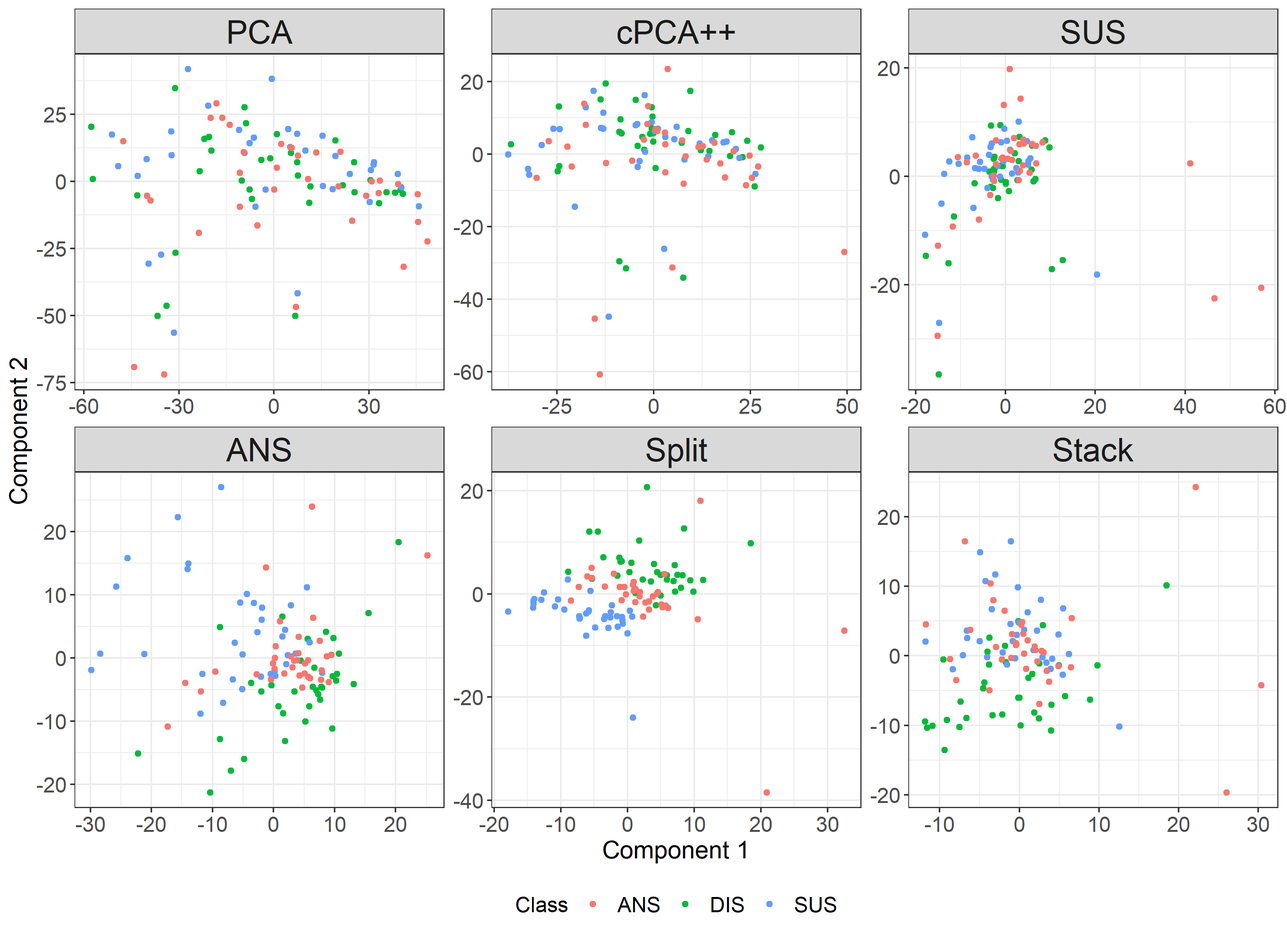
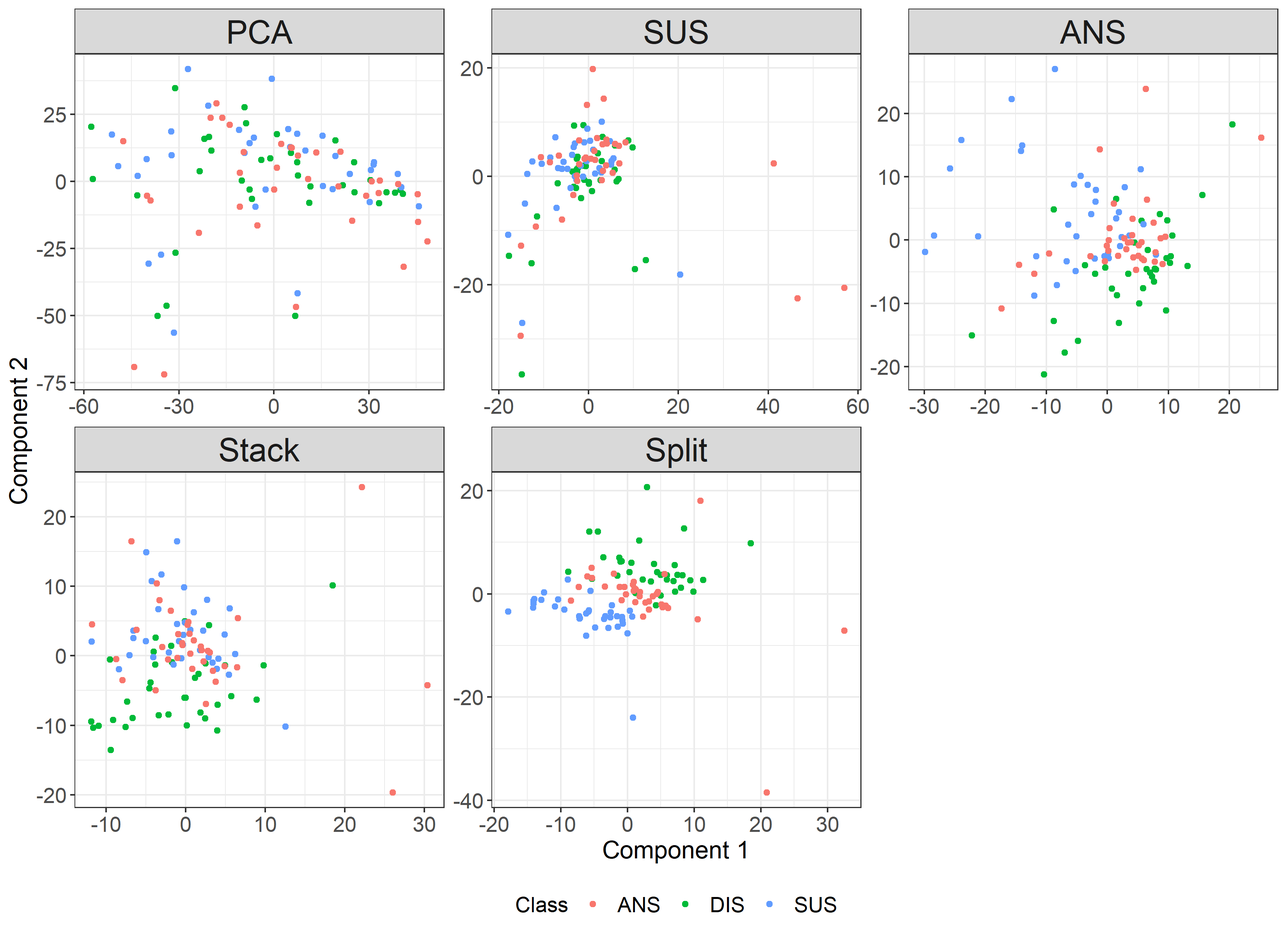
update figures to remove cpca++ and add face of interest. update section title, add leading sentence to results section

diff --git a/DCA/main.tex b/DCA/main.tex
@@ -98,64 +98,70 @@ Boileau et al.  \cite{Boileau} described Sparse cPCA (scPCA) by adding $l_1$ and
     %    \item no intuition on how to extend to multiple data
     %\end{enumerate}
    
-   However, there are two main disadvantages to these existing methods. First, they cannot accommodate multiple background datasets. Multiple backgrounds would allow researchers to target the exact variability of interest by removing unwanted variation from multiple sources and/or conditions. For example...
-   Naively applying existing methods by stacking the multiple background data matrices together and forming a pooled covariance matrix will not work well. The pooled covariance is a sample-weighted average of the individual background covariance matrices and may not be representative of any of the individual datasets. %The resulting best case scenario is multiple backgrounds with the exact same covariance matrix such that background variation is preserved.  However, the worst case scenario, background covariances may sum to a diagonal matrix, washing out background variation when stacking and reducing cPCA and its variants to PCA. 
+   However, there are two main disadvantages to these existing methods. First, they cannot accommodate multiple background datasets. Multiple backgrounds would allow researchers to target the exact variability of interest by removing unwanted variation from multiple sources and/or conditions. 
+   For example, identifying unique facial features of Happy Emotions in a data set which also contains Surprise, Angry, and Sad faces. If researchers have prior data on Surprise, Angry, and Sad faces, they can contrast those emotions without diluting the structure of each individual background, therefore recovering features specific to Happy.
+   Naively applying existing methods by stacking the multiple background data matrices together and forming a pooled covariance matrix is suboptimal. The pooled covariance is a sample-weighted average of the individual background covariance matrices and may not be representative of any of the individual datasets. %The resulting best case scenario is multiple backgrounds with the exact same covariance matrix such that background variation is preserved.  However, the worst case scenario, background covariances may sum to a diagonal matrix, washing out background variation when stacking and reducing cPCA and its variants to PCA. 
    
    The second disadvantage of existing contrastive methods is that they require one (e.g., cPCA and ccPCA) or several (e.g., scPCA) tuning parameters, user input variables that influence an algorithm's behavior. Since existing contrastive methods heavily depend on the tuning parameter, finding the optimal tuning parameter(s) which balances the dual mandate of maximizing variability in the target and minimizing variability variability in the background may be tedious and frustrating. Although cPCA and ccPCA have criteria-based tuning parameter solutions, the right tuning parameter may not be among the default candidates. An apparent exception is cPCA++, but in practice it requires a tuning parameter when its background sample covariance matrix is not positive definite, which is common many applications.
    
    %Lastly, from a computational perspective, they each revolve around the construction of the complete $p \times p$ contrastive covariance matrix, involving two $p\times p$ target and background covariance matrice. When $p$ is large, the required memory scales with $p^2$, making these methods unsuitable for high-dimensional settings, especially for dense matrices.
     
     
-    We propose Unique Component Analysis (UCA) to address both of these issues. UCA works by constraining the objective function in cPCA to give directions that are orthonormal and explain small amounts of variation in each background dataset. Specifically, let $A$ be the $p \times p$ target covariance matrix and $B_j$, $j \in 1,...,m$ be the $m$ $p\times p$ background covariance matrices. We seek to: 
+    We propose Unique Component Analysis (UCA) to address both of these issues. UCA works by constraining the objective function in cPCA to give directions that are orthonormal and explain small amounts of variation in each background dataset. Specifically, let $A$ be the $p \times p$ target covariance matrix and $B_j$, $j \in 1,\ldots, m$ be the $m$ $p\times p$ background covariance matrices. We seek to: 
      \begin{align}
          &\max_{v\in \mathbb{R}^p}{v^TAv} \nonumber\\ 
          \text{subject to }&\; v^{T}v=I,\;\; v^TB_1 v \leq 1, \cdots, v^T B_m v \leq 1 \nonumber
      \end{align}
     These constraints are naturally found in generalized eigenvalue problems and can be solved using weak duality of the Lagrangian.
-    UCA is tuning-free, is easily extensible to multiple background data sets, and is scalable to high-dimensions. We hope to provide a way for researchers to explore higher dimensional data and uncover variation unique to the data of interest, variation not shown in previous studies, control groups, and other known sources of variation, simultaneously. UCA seeks to find the unique directions of variation which both maximize the varability in the target dataset and also account for little variation in each of the background dataset(s). We show that UCA achieves similar results as cPCA and cPCA++ with a single background dataset and that it can outperform them when using multiple backgrounds. %We then use UCA to find prominent emotional features using eigenfaces and illustrate where stacking may fail. In the methods section, we provide detail to how UCA works and how we handle high-dimensional problems. 
-    %We provide three examples illustrating the effectiveness of UCA and 
+    UCA is tuning-free, is easily extensible to multiple background data sets, and is scalable to high-dimensions. We hope to provide a way for researchers to explore higher dimensional data and uncover variation unique to the data of interest, variation not shown in previous studies, control groups, and other known sources of variation, simultaneously. UCA seeks to find the unique directions of variation which both maximize the varability in the target dataset and also account for little variation in each of the background dataset(s). We show that UCA achieves similar results as cPCA and cPCA++ with a single background dataset and that it can outperform them when using multiple backgrounds. 
 
 Another way to conduct contrastive dimension reduction is with ``Residual PCA''. We note that residual PCA (rPCA) is not a formal technique but is used as an ad-hoc method of removing noise from known variability  \cite{rpca}. Again, let $A$ be the $p \times p$ target covariance matrix and $B$ be the $p\times p$ background covariance matrix.  For some integer $k$ which denotes the low dimensional representation of $B$, rPCA performs PCA after projecting $A$ onto the ``residual'' space of $B$. More specifically, if $W$ denotes the eigenvectors of $B$ and $W_{(k+1):p}$ the top $(k+1):p$ eigenvectors of $B$,then rPCA seeks to:
 \[\max_{v\in \mathbb{R}^p}{v^T \left(W_{(k+1):p}W_{(k+1):p}^T A\right) v}\]
 Note that cPCA with contrastive parameter $\lambda \rightarrow \infty$ is different from rPCA because rPCA requires user to choose the number of background components to be kept, whereas cPCA with $\lambda \rightarrow \infty$ maps reduces the target on the nullspace of the background-- they would be equivalent for $k = p$. We present rPCA to demonstrate that some of the same underlying directions can be found in a more intuitive way. It also can easily be extensible to multiple backgrounds by projecting onto addition background residual spaces. Since the residual space of the background can be done easily with singular-value decomposition, it is computationally simple and straight forward. However, one still needs to choose the background data dimension, $k$.
-To solve this tuning parameter problem, we use the elbow method of finding the best linear single knot spline at $k$ such that the mean-square error is minimized in the scree plot.%(Cite...I don't remember the citation for this...)
+To solve this tuning parameter problem, we use the elbow method of finding the best linear single knot spline at $k$ such that the mean-square error is minimized in the scree plot. For the examples below, we will default to this method of selecting $k$. %(Cite...I don't remember the citation for this...)
    
-   
-   
+  % some thing that leads to the results section  
+   %We then use UCA to find prominent emotional features using eigenfaces and illustrate where stacking may fail. In the methods section, we provide detail to how UCA works and how we handle high-dimensional problems. 
+    %We provide three examples illustrating the effectiveness of UCA and 
+
 \section{Results}
 \subsection{Subgroup discovery in protein expression data}
+\begin{figure}[th!]
+    \centering
+	\includegraphics[width = 0.8\textwidth]{figure/Mouse_Data.png}
+	\caption{Mouse Protein Expression: Down Syndrome Separability of Saline injected mice which were not shocked. confirming  \cite{Abid} results where Down Syndrome and control mice were unseparable using PCA alone but is easily separable by cPCA at all values of $\lambda$, cPCA++, rPCA, and UCA.}
+	\label{fig:Mouse}
+\end{figure}
+We show UCA has consistent performance to cPCA, and better performance than cPCA++ using the Mouse Protein Expression data.
 The goal of the mouse protein expression experiment was to assess whether Memantine recovered the ability to learn in Down Syndrome mice, with the aim to identify subsets of protein that discriminate between treatment classes.
  The study measured expression of 76 mice proteins of 1080 control or trisomic (Down Syndrome) mice samples (each mice measurement considered an independent sample/mouse), which received a combination of shock therapy (Context Shock vs. Shock Context) and drugs (Saline vs. Memantine)  \cite{Ahmed, Higuera, Abid}.  
-Since saline treated mice not exposed to shock therapy (Shock Context) are similar to those that are saline treated but also exposed (Context Shock) to shock therapy, we can investigate the variation unique to undruged and unshocked mice by contrasting shocked control mice protein expression measurements, which removes variation resulting from shock therapy. Doing so may show how control mice and Down Syndrome mice differ in the control setting.
+Here, we investigate the variation unique to unshocked, saline injected mice.
+Since saline treated mice not exposed to shock therapy (Shock Context) are similar to saline treated mice that are exposed to shock therapy (Context Shock), we can contrast protein expression measurements from shocked, saline treated mice, effectively removing variation resulting from shock therapy. Doing so may show how control mice and Down Syndrome mice differ in the saline treated setting.
+
 We compare the principal directions found by UCA to those found by PCA, cPCA ($\lambda = 0.5, 1, 5, 10$), cPCA++, and rPCA on Saline injected mice which have not received shock therapy (Shock Context) and use Down Syndrome class to evaluate separability when observations are projected onto the first two directions found by each method.
 
 The results in Figure \ref{fig:Mouse} show that PCA has difficulty distinguishing between mice with Down Syndrome and mice without.  In this example, the resulting separation in the first two contrastive principal components does not depend on the chosen $\lambda$. At all values of $\lambda$, cPCA achieves good separation, therefore it is unsurprising UCA has similar results. These results align with the results found in  \cite{Abid}.
-cPCA++, which also does not require specifying a contrastive tuning parameter, performs better than PCA at separating control and Down Syndrome mice, but falls short of achieving similar performance to cPCA for any value of the contrastive tuning parameter. Interestingly, the simple and intuitive rPCA method, with $k$ chosen by single knot spline with smallest MSE, achieved similar results to both cPCA and UCA, while outperforming cPCA++.
+cPCA++, which also does not require specifying a contrastive tuning parameter, performs better than PCA at separating control and Down Syndrome mice, but falls short of achieving similar performance to cPCA at any value of the contrastive tuning parameter. Interestingly, the simple and intuitive rPCA method, with $k$ chosen by single knot spline with smallest MSE, achieved similar results to both cPCA and UCA, while outperforming cPCA++.
 
-% rewrite caption
-\cite{Abid} we confirm their results. 
-\begin{figure}[t]
-    \centering
-	\includegraphics[width = 0.8\textwidth]{figure/Mouse_Data.png}
-	\caption{Mouse Protein Expression: Separability of Saline injected mice which were not shocked. confirming  \cite{Abid} results where a background of Saline injected mice who were shocked was used. This example is unseparable using PCA alone but is easily separable by cPCA for all values of $\alpha$, cPCA++, rPCA, and UCA.}
-	\label{fig:Mouse}
-\end{figure}
 
 \subsection{Subgroup discovery in protein expression data with multiple backgrounds}
-A more challenging problem for cPCA and it's variants is separating Down Syndrome and Control mice when the target involves Saline injected mice which received shock therapy. In figure \ref{fig:MouseSplitStack} we show the results of PCA, cPCA++, rPCA, and UCA with a variety of backgrounds (shown in parenthesis): memantine injected mice with Down Syndrome that were shocked (Mem-C/S-Ts65Dn), memantine injected mice with Down Syndrome that were not shocked (Mem-S/C-Ts65Dn), saline injected mice with Down Syndrome that were not shocked (Saline-S/C-Ts65Dn), all of the aforementioned backgrounds stacked before forming their joint covariance matrix (Stack All), and aforementioned backgrounds treated as separate backgrounds simultaneously (Split All). 
-
-PCA and the single background condition UCA, cPCA++ and rPCA ($k$ chosen with single knot spline with lowest MSE) with stacked background cannot distinguish between Down Syndrome and control mice. UCA with stacked background performs better at splitting the two groups compared with the other methods.  However, UCA with split background yields almost complete separability compared with the stack background result, demonstrating the additional leverage when we treat each background separately.
-We note that this problem isn't easily separable by using cPCA++, rPCA, and cPCA with a variety of contrastive parameter and the results are generally worse than figure \ref{fig:MouseSplitStack} (see figure \ref{fig:mouse_stack_cpca} in the Appendix). 
-
-%We also note that the choice of background is crucial and that not some backgrounds are unsuitable... using control instead leads to bad results?
-% extension by multiple targets? Dave says that you can just maximize the one with the smallest variability.
-
-\begin{figure}[t]
+\begin{figure}[th!]
     \centering
-	\includegraphics[width = 1.0\textwidth]{figure/Mouse_split_stack_Ts65Dn.png}
-	\caption{Mouse Protein Expression : Separability of saline injected mice which were shocked. Separating Down Syndrome and control mice is more difficult in this case when only using a single background dataset. UCA with every combination of background (in parenthesis) represents the best case sceario for cPCA, and cannot separate between Down Syndrome and control mice. However, when combining information from all backgrounds via stacking, UCA improves the separation. Note that cPCA++ and rPCA both have difficulty even when leveraging the same stacked background.  When treating each background separately, UCA improves on the stacking results.}
+	\includegraphics[width = 0.9\textwidth]{figure/Mouse_split_stack_Ts65Dn.png}
+    \caption{Mouse Protein Expression : Separability of context shocked (C/S) and saline injected mice. Separating Down Syndrome and control mice is more difficult in this case when only using a single background dataset. UCA with every combination of background (in parenthesis), which represents cPCA under the best case scenario, ncannot separate between Down Syndrome and control mice. However, when combining information from all backgrounds via stacking (Stack All), UCA improves the separation. Note that cPCA++ and rPCA both have difficulty even when leveraging the same stacked (Stack All) background.  When treating each background separately, UCA improves on the stacking results.}
 	    \label{fig:MouseSplitStack}
 \end{figure}
+A more challenging problem for cPCA and it's variants is separating Down Syndrome and control mice when mice receive both saline and shock therapy.
+In figure \ref{fig:MouseSplitStack} we show the results of PCA, cPCA++, rPCA, and UCA with a variety of backgrounds (shown in parenthesis): memantine injected mice with Down Syndrome that were shocked (Mem-C/S-Ts65Dn), memantine injected mice with Down Syndrome that were not shocked (Mem-S/C-Ts65Dn), saline injected mice with Down Syndrome that were not shocked (Saline-S/C-Ts65Dn), all of the aforementioned backgrounds stacked before forming their joint covariance matrix (Stack All), and aforementioned backgrounds treated as separate backgrounds simultaneously (Split All). 
+Here, we use UCA as a best case proxy for cPCA.  We note that under the shock therapy condition, cPCA with other values of the contrastive parameter result in worse separability than figure \ref{fig:MouseSplitStack} (see figure \ref{fig:mouse_stack_cpca} in the Appendix). 
+
+Similar to the singe background situation above, PCA is unable to distinguish between control and Down Syndrome mice.
+In contrast, UCA with a single background (Mem-C/S-Ts65Dn, Mem-S/C-Ts65Dn, Saline-S/C-Ts65Dn) also fails to distinguish between control and Down Syndrome mice.
+Combining multiple backgrounds improves the group separability. When combining the individual backgrounds to create the ``Stack All'' background, rPCA, cPCA++, and UCA significantly improve the separability between the two group, with UCA achieving the best separability.
+However, UCA demonstrates the additional leverage gained by individually contrasting each background simultaneously: UCA with the ``Split All'' background yields almost complete separability. 
+
+%We also note that the choice of background is crucial and that not some backgrounds are unsuitable... using control instead leads to bad results?
+
 
 
 %We show that our results match the cPCA results
@@ -164,39 +170,38 @@ We note that this problem isn't easily separable by using cPCA++, rPCA, and cPCA
 %residual PCA yields similar results.
 
 
-\subsection{Faces}
-We exemplify the advantages of the multiple background capabilities of UCA using the Karolinska Directed Emotional Faces (KDEF) \cite{Calvo2008}, which captured images of 7 emotions, 5 different perspectives, from 70 amateur actors in either a practice or final session.
-Here we construct an example demonstrating that using UCA with multiple backgrounds is superior to using a single background. 
-This is similar to a real world use-case of UCA where researchers may have targeted variation of interest, but also various control groups.
-For illustrative purposes, We focus on  uncover variation unique to the Disgust emotion after contaminating the data with Surprise and Angry emotions from the final session.
-In Figure \ref{fig:Faces}, we look at the top five eigenfaces produced by PCA, UCA with a single practice session background emotion of either Angry, Surprise, or an amalgamation of both Angry and Suprise (Stack), compared to cPCA++ with stacked background and UCA with dual practice session backgrounds of Angry and Suprised (Split). 
-% Since UCA represents the best case, we did not compare to different values of contrastive tuning parameter alpha
-
-% some conclusions about the image
-
-With PCA, eigenfaces represent faces that appear mostly angry.  
-UCA with only Surprise practice faces as the background is dominated by surprise faces.
-UCA with only Angry practice faces as the background contains a mixture of surprise (2) and disgust (1,4,5) faces.
-When UCA has both Surprise and Angry in the background, we see that features of digust are highlighted in the first two eigenfaces
-However, when using the joint covariance of Surprise and Angry as the background, features of disgust are pushed until the 3rd eigenface. The 2nd eigenface here closely resembles that from the 3rd eigenface of Split, and the third eigenface closely resembles the 2nd eigenface from split.
-
-Using cPCA++ with the stacked background, I'm not sure what we get. it looks pretty bad.
-
-
-To better see the differences between the eigenfaces, we project the faces onto the first two components found and color the points by emotional class in figure \ref{fig:Face_Projections}.
-
+\subsection{Separating Emotional Features with Karolinska Directed Emotional Faces}
 \begin{figure}[!th]
     \centering
-	\includegraphics[width = 0.93\textwidth]{figure/F_Surprise_Angry_Disgust.png}
-	\caption{First Five Eigenfaces of Surprise, Angry, and Disgust emotions from the Female Actors from Karolinska Directed Emotional Faces (KDEF) \cite{Calvo2008}. Target data is sus/ans/dis }
+	\includegraphics[width = 0.78\textwidth]{figure/F_Surprise_Angry_Disgust_1.png}
+    \caption{Eigenfaces of Surprise (SUS), Angry (ANS), and Disgust (DIS) emotions from the Female Actors from KDEF \cite{Calvo2008}. ``Emotion'' row contains final session DIS eigenfaces. PCA eigenfaces describe general emotional faces of SUS, ANS, and DIS, whereas UCA with only SUS background exhibits features of both ANS and DIS. UCA with only ANS as background exhibits features of both SUS and DIS. Combining backgrounds SUS and ANS in the Split manner better highlight the nasolabial fold and the eyebrows, features unique to DIS, but not as prominent in SUS or ANS. Combining SUS and ANS in the Stacking manner using UCA does not achieve similar results.}
 	    \label{fig:Faces}
 \end{figure}
 \begin{figure}[!th]
     \centering
-	\includegraphics[width = 0.93\textwidth]{figure/F_Surprise_Angry_Disgust_projected.png}
-	\caption{Eigenfaces projected onto the first two components found by PCA, cPCA++, UCA using Surprise (SUS) as the background, UCA using Angry (ANS) faces as the background, UCA using both Surprise and Angry as the background treated separately (Split), UCA using the joint covariance of Surprise and Split (Stack) as the background}
+	\includegraphics[width = 0.9\textwidth]{figure/F_Surprise_Angry_Disgust_projected.png}
+    \caption{Eigenfaces projected onto the first two components found by PCA, cPCA++, UCA using Surprise (SUS) as the background, UCA using Angry (ANS) faces as the background, UCA using both Surprise and Angry as the background treated separately (Split), UCA using the joint covariance of Surprise and Split (Stack) as the background. UCA with Split background is capable of separating final session emotions whereas UCA with a single practice session background and both UCA and cPCA++ with stacked practice session backgrounds cannot produce the same separation.}
 	\label{fig:Face_Projections}
 \end{figure}
+We exemplify the advantages of the multiple background capabilities of UCA using the Karolinska Directed Emotional Faces (KDEF) \cite{Calvo2008}, which captured images of 7 emotions, 5 different perspectives, from 70 amateur actors in either a practice or final session.
+Here we construct an example demonstrating that using UCA with multiple backgrounds is superior to using a single background. 
+This is similar to a real world use-case of UCA where researchers may have targeted variation of interest, but also various control groups which may be used to remove known variability.
+For illustrative purposes, We focus on  uncover variation unique to the Disgust emotion after contaminating the data with Surprise and Angry emotions from the final session. 
+In Figure \ref{fig:Faces}, we look at the top five eigenfaces produced by PCA, UCA with a single practice session background emotion of either Angry, Surprise, or an amalgamation of both Angry and Suprise (Stack), compared to cPCA++ with stacked background and UCA with dual practice session backgrounds of Angry and Suprised (Split). 
+% Since UCA represents the best case, we did not compare to different values of contrastive tuning parameter alpha
+
+% some conclusions about the image
+PCA eigenfaces generally represent faces of all the emotions and does not highlighting features specifically to any individual emotion.
+UCA with only Surprise (SUS) practice faces as the background is dominated by features unique to Angry faces, whereas UCA with only Angry (ANS) practice faces as the background contains a mixture of surprise and disgust emotional features.
+Using both Surprise and Angry practice faces in the background in either Split or Stack better highlights emotional features of Disgust better than using a single background emotion.
+When UCA has both Surprise and Angry in the background (Split), we see that eyebrows and nasolabial folds, features unique to digust, are more pronounced compared to using the joint covariance of Surprise and Angry as the background, where features of disgust are pushed to the third eigenface. The second eigenface of Stack closely resembles the third eigenface of Split, and the third eigenface closely resembles the 2nd eigenface from split.
+% cPCA++ with the stacked background does not share the same features highlighted by using UCA with both practice emotions as the background in either the split or stack framework.
+
+To better see the differences between the eigenfaces, we project the faces onto the first two components found and color the points by emotional class in figure \ref{fig:Face_Projections}.
+% Here it is clear that cPCA++ does not yield any advantage in emotional class separation over PCA and UCA.
+We can see that under the Split framework unique to UCA, we can actually separate each emotional face in the final session using the first two component, which cannot be accomplished when only using a single background, or combining multiple background data to produce a single joint covariance matrix.
+
+Other face combinations show either similar or better separation when treating backgrounds separately, rather than stacking them to form a joint covariance matrix.
 
 %\begin{figure}[!ht]
 %    \label{fig:Diff_faces}
@@ -222,10 +227,16 @@ To better see the differences between the eigenfaces, we project the faces onto 
 %\end{figure}
 
 \section{Discussion}
-In many data analytics settings we are interested in removing uninteresting variation that contaminate the data of interest
+In many data analytics settings we are interested in removing uninteresting variation that contaminate the data of interest.
 We propose an update to the original cPCA framework, UCA, by extending contrastive abilities to multiple background data. To do this, we first solved the tuning parameter problem which plague current methods. UCA does not require user input in selecting the best contrastive parameter, rather it works by maximizing the target data variability subject to keeping the variability in each background small using weak duality of Lagrangians. Furthermore, we reformulate the contrastive problem to avoid creating several $p \times p$ covariance matrices, enabling us to perform contrastive analysis in high-dimensions.
 
-We show that UCA performs adequately as compared to cPCA, cPCA++, and rPCA in the easily separable case within the mouse data. We then presented a less separable case with the mouse data, in which cPCA, cPCA++, and rPCA fail to do an adequate job in separating Down Syndrome and control mice.  We then showed how leveraging multiple backgrounds allows us to better separate Down Syndrome and control mice than each individual background dataset and simply stacking the individual datasets together. Lastly, we demonstrate how UCA can be used at highlighting emotions in eigenfaces and show that we can construct an example where stacking individual background data can cause cPCA to fail.
+We show that UCA is consistent with existing methods in the easily separable case within the mouse data. We then presented a less separable case with the mouse data, in which cPCA, cPCA++, and rPCA fail to do an adequate job in separating Down Syndrome and control mice for any choice of tuning parameter, where applicable.
+We showed that simply stacking individual background datasets can leverage multiple backgrounds to improve the single background separation between Down Syndrome and control mice.
+However, using the multiple background framework provided by UCA achieves even better results than stacking individual background datasets. 
+Lastly, we demonstrate how UCA can be used to highlight emotions in eigenfaces by natively handling multiple backgrounds, which cannot be replicated by cPCA and UCA under the stacking framework. 
+
+Like cPCA, the choice of background still plays a pivotal role in the directions found by UCA. UCA only finds the optimal contrastive parameter using Lagrange Multipliers and does not remedy a poor background choice.
+We have released the code for UCA as an R package, along with documentation and examples.
 
 
 %cPCA++ isn't all that impressive
@@ -362,6 +373,13 @@ to solve for the each of the $m$ Lagrange Multipliers we use Algorithm \ref{alg:
 The advantage to the Lagrangian method in the multiple background setting is that rather than constructing an aggregated covariance matrix by stacking data, which arbitrarily weighs covariance matrices by their sample size, our method objectively constructs weights which satisfy the constraint $ v^TB_jv\leq 1$ for each $m$ background covariance matrix. If multiple backgrounds contain the same information, constructing the covariance matrix by stacking data will change the covariance by a factor less than 1, e.g. if two backgrounds, the covariance changes by $\frac{2}{2n - 1}$.  If only one covariance matrix will constrain the Lagrangian, the corresponding Lagrange Multiplier will be non-zero and Lagrange Multipliers corresponding to all other redundant constraints on the Lagrangian are set to zero.  
 
 \subsection{Extension to High Dimensional Data:}
+\begin{figure}[!ht]
+    \label{fig:computational_perf}
+    \centering
+	\includegraphics[width = 0.8\textwidth]{figure/final_perf.png}
+	\caption{UCA and cPCA implementation using Product SVD vs. Eigen decomposition for high-dimensional data: 25 random $100 \times p $ target and background matrices are generated from a standard normal distribution and where $p$, the dimension varied from 1,000 to 10,000 in steps of 1,000. Box plots of time (in seconds) is plotted for both Eigen decomposition and the product SVD method. For small $p$, there is a negligible difference between the methods. However, as dimension $p$ increases, the Product SVD is significantly faster.}
+\end{figure}
+
 To extend our method to high-dimensional data, we avoid the traditional Eigen decomposition method of finding eigenvalue/eigenvectors of the covariance matrix. Just like how singular-value decomposition (SVD) of the data matrix can be used to find the top eigenvalue/eigenvectors of it's covariance, we introduce the Product SVD method to exploit the structure of how the contrastive covariance matrices are formed and employ SVD of a product of matrices to quickly find our top eigenvalue.  Breaking the problem down in this way considerably speeds up our L-BFGS-B algorithm, and allows us to run UCA even in the high-dimensional setting.
 
 For a single background, let the $p \times p$ covariance matrices $A$ be the target covariance matrix and $B$ be the background covariance matrix. $A$ and $B$ are formed from corresponding centered $n_y \times p$ target data matrix $Y$,   and centered $n_x \times p$ background data matrix $X$.  We can write the difference of the covariance matrices $A - \lambda B$ as a product of a $p \times (n_y + n_x)$ dimensional left matrix , $L$, and a $(n_y + n_x) \times p$ dimensional right matrix, $R$ as seen in equation \ref{eq:7}:
@@ -373,7 +391,7 @@ C_\lambda &= A - \lambda B \nonumber\\
 With this formulation, we can follow the steps in Golub et al.  \cite{Golub}, and find the singular values and vectors of $C_\lambda$ using a sequence of SVD and QR decompositions operating on the left and right matrices. Since singular values and eigenvalues coincide in square matrices, we use the singular vectors, $U$, to find the largest eigenvalues by sorting the diagonal of $ULRU^T$.  
 We describe the Product SVD Method in algorithm \ref{algo:product-svd}, which can directly replace the eigen decomposition in the single background UCA (Algorithm \ref{alg:uca-single}).
 
-\begin{algorithm}[h]
+\begin{algorithm}[ht]
 \label{algo:product-svd}
 \caption{Product SVD Method to calculate the largest Eigenvalue of $C_\lambda$}
 \SetAlgoLined
@@ -405,13 +423,6 @@ Similarly, in the multi-background scenario, rather than modifying $A^*$ in the 
  
 To demonstrate the speed improvements of the Product SVD method compared to the current fastest implementations of Eigen decomposition in high-dimensions, we conduct a simulation study with 25 sample $100 \times p$ target and background data matrices generated from a standard Normal distribution with $p$ varying from 1.000 to 10,000 in steps of 1,000. To ensure a fair comparison, we leverage C++ in both implementations using a custom RcppArmadillo \cite{rcpparmadillo} function for the Product SVD method and the RSpectra package (0.16-0) \cite{Rspectra} for the Eigen decomposition method; RSpectra being a package designed for large-scale Eigen decompositions based off the C++ Spectra library. We use the microbenchmark package \cite{microbenchmark} to ensure accurate timings. Our benchmark does not take into account the additional cost of forming the $p\times p$ covariance matrices, which would only exacerbate the difference between the two methods in real world applications.
 
-\begin{figure}[!ht]
-    \label{fig:computational_perf}
-    \centering
-	\includegraphics[width = 0.8\textwidth]{figure/final_perf.png}
-	\caption{UCA and cPCA implementation using Product SVD vs. Eigen decomposition for high-dimensional data: 25 random $100 \times p $ target and background matrices are generated from a standard normal distribution and where $p$, the dimension varied from 1,000 to 10,000 in steps of 1,000. Box plots of time (in seconds) is plotted for both Eigen decomposition and the product SVD method. For small $p$, there is a negligible difference between the methods. However, as dimension $p$ increases, the Product SVD is significantly faster.}
-\end{figure}
-
 Figure \ref{fig:computational_perf} show box plots of time (in seconds) versus the dimension, $p$, colored by method, summarizes the results of the simulation study. As dimension $p$ increases, the computational time of our Product SVD method increases much slower than the current Eigen decomposition implementations. It should be mentioned that for $p < 1000$ the Product SVD method is slower due to overhead of additional computation on small matrices. In general, for low-dimensional settings where $n \geq p$, the Product SVD will be negligibly slower because of the additional QR, SVD, matrix products, and sort computations. 
 
  %More concretely, an UCA analysis of a target $3400\times 3400$ dimensional covariance matrix with two backgrounds requires 88 MB of storage for each of the three covariance matrices formed, compared to 1.8 MB for each data matrix.  Assuming these matrices have all been pre-calculated, using a RSpectra implementation of eigendecomposition, UCA takes 93 seconds vs. 9 seconds with our method.
@@ -427,10 +438,8 @@ Figure \ref{fig:computational_perf} show box plots of time (in seconds) versus t
  \subsection{Data availability}
  Datasets that have been used to evaluate UCA in this paper are publicly available from the authors of the original studies. You can download the mouse protein expression dataset from the \href{https://archive.ics.uci.edu/ml/datasets/Mice+Protein+Expression}{UCI Machine Learning Repository} \cite{Higuera} and the Karolinska Directed Emotional Faces (KDEF) from \href{https://kdef.se/}{kdef} website  \cite{Calvo2008}.
  
-\newpage
 \bibliography{mybib}{}
 \bibliographystyle{plain}
-\newpage
 \section{Appendix}
 \begin{figure}[!ht]
     \centering
